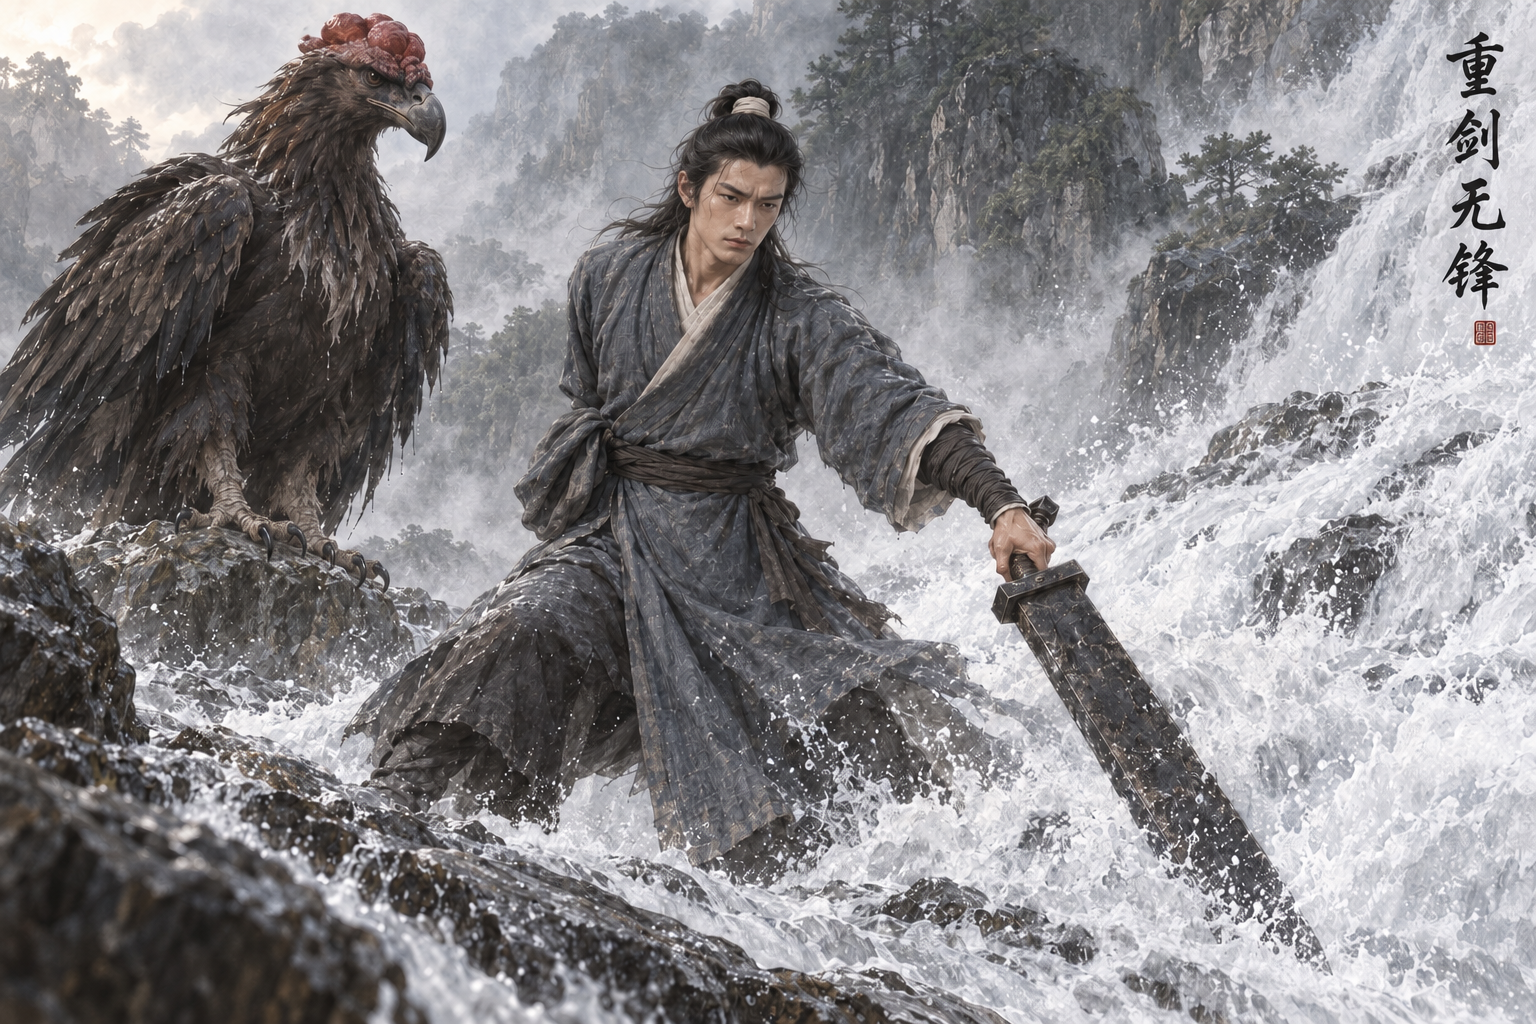
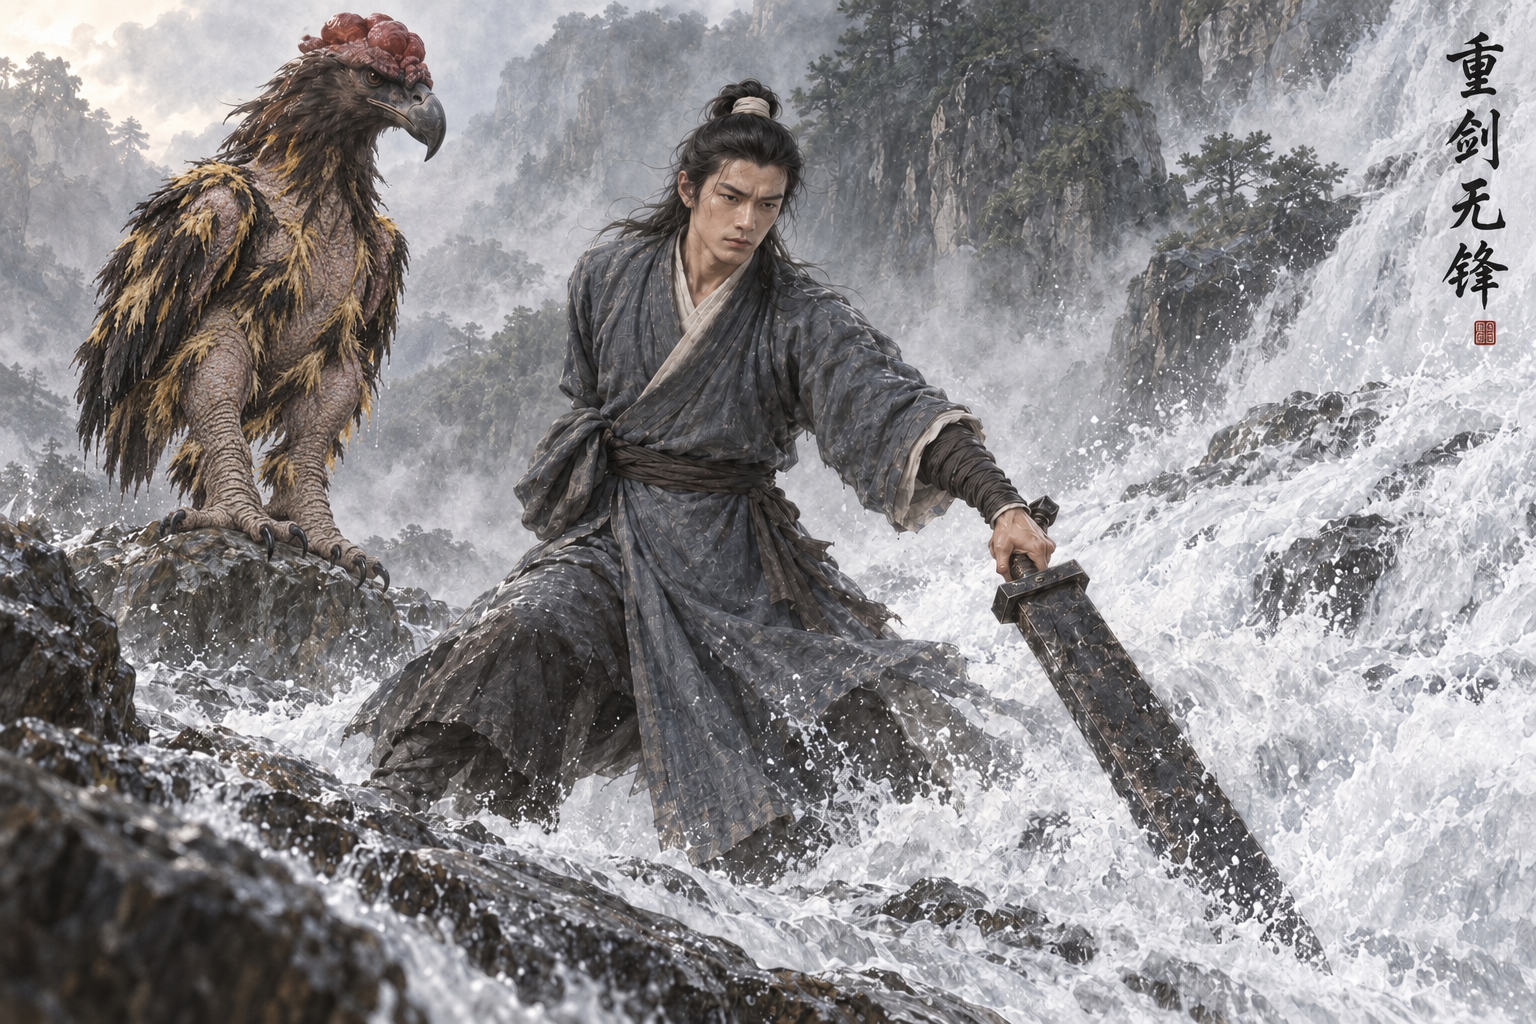
assets: AR-82 原著核对返修 剑冢插图同步神雕疏羽短翅粗腿
原著摘句已同步提示词；已打开验图；蒙版外0像素变化。

Executed-By: Codex gpt-6.1-sol（AR-82）

Changed region(s): [[0.0, 0.125, 0.3125, 0.5625]]

diff --git a/assets/default/prompts/scenes/ch03-shendiao/cg_ch03_sword_tomb_training.md b/assets/default/prompts/scenes/ch03-shendiao/cg_ch03_sword_tomb_training.md
@@ -45,3 +45,8 @@ composite_job: cg_ch03_sword_tomb_training.resume3r2
 ## 原著与美术边界
 
 取景、服色与站位为（原创扩展美术设计）；精确回目与动作时序（待考），以三联／广州修订版核对。
+
+## 原著依据
+
+- 《神雕侠侣》第二十三回 手足情仇：“头顶生着个血红的大肉瘤”；https://www.xuges.com/wuxia/jinyong/sdxl/162.htm
+- AR-82 返修约束（本节优先于历史提示词）：只编辑左侧神雕躯干翅膀腿脚：全身黄黑羽毛疏疏落落，显出明显大块裸露灰皮，翅膀缩短紧贴躯干，腿脚比普通鹰粗壮数倍且腿上部露皮。神雕很丑，不能是普通密羽大鹰。保留原头部血红大肉瘤、脸和朝向、身体站位及整体身高。杨过、玄铁剑、河水、岩石、题字朱印逐像素不动。
